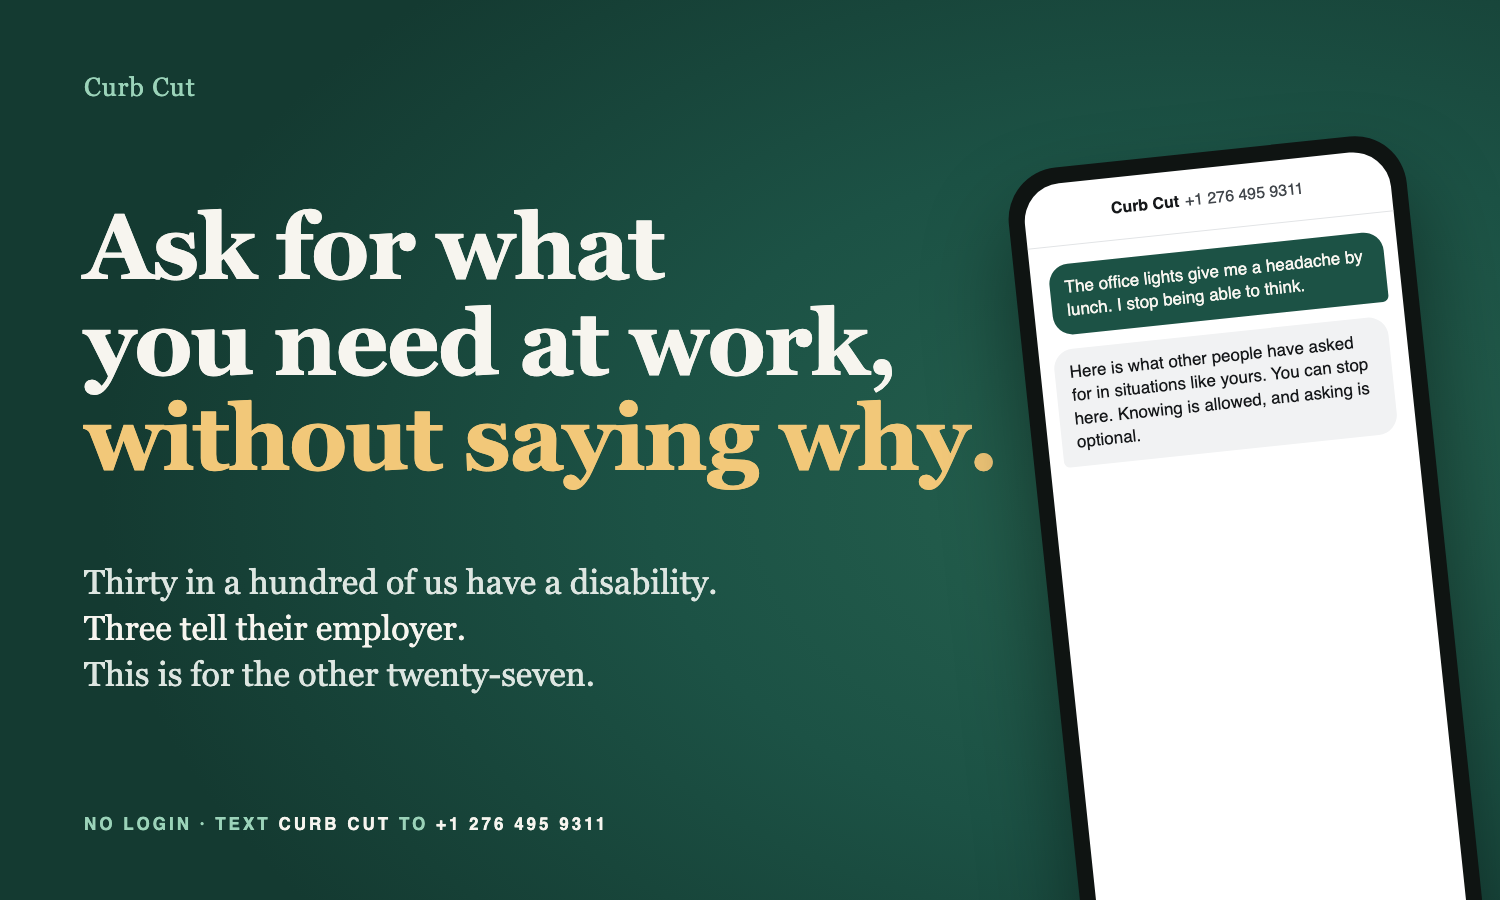
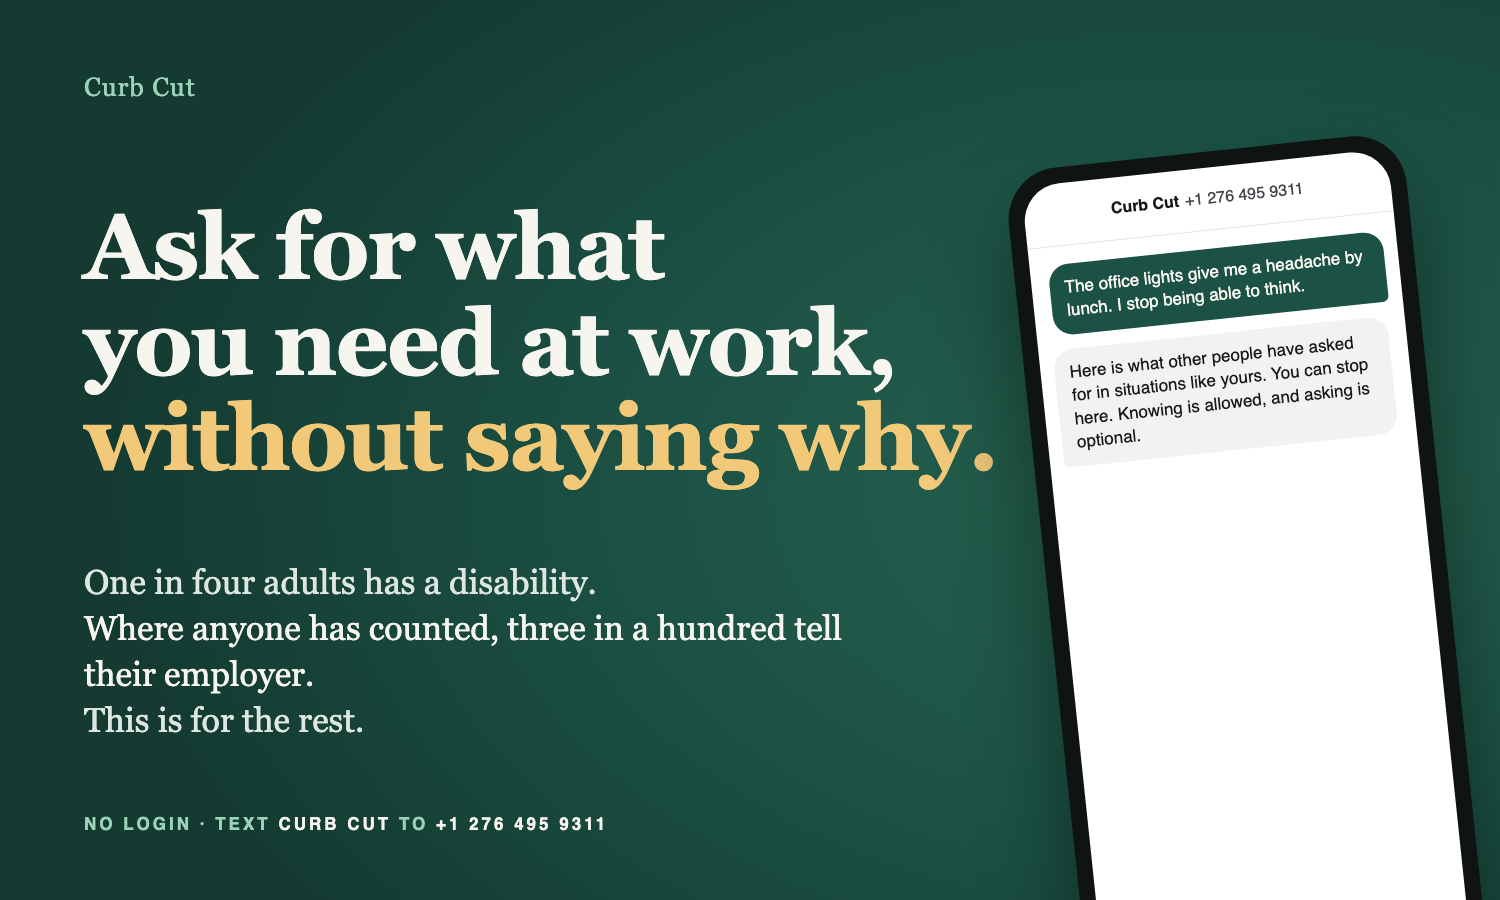
It is not a white-collar problem: BLS 2025, CDC and Statistics Canada figures in the evidence, the description, the home page and the hero

Changed region(s): [[0.0613, 0.6222, 0.5827, 0.8089]]

diff --git a/video/hero.html b/video/hero.html
@@ -19,7 +19,7 @@ h1 em{font-style:normal;color:#F2C879}
 </style><div class="wrap">
 <div class="mark">Curb Cut</div>
 <h1>Ask for what<br>you need at work,<br><em>without saying why.</em></h1>
-<div class="stat">Thirty in a hundred of us have a disability.<br><b>Three tell their employer.</b><br>This is for the other twenty-seven.</div>
+<div class="stat">One in four adults has a disability.<br><b>Where anyone has counted, three in a hundred tell their employer.</b><br>This is for the rest.</div>
 <div class="live">NO LOGIN  ·  TEXT <b>CURB CUT</b> TO <b>+1 276 495 9311</b></div>
 <div class="phone"><div class="scr"><div class="bar"><b>Curb Cut</b> +1 276 495 9311</div><div class="msgs"><div class="m me">The office lights give me a headache by lunch. I stop being able to think.</div><div class="m bot">Here is what other people have asked for in situations like yours. You can stop here. Knowing is allowed, and asking is optional.</div></div></div></div>
 </div>

diff --git a/docs/EVIDENCE.md b/docs/EVIDENCE.md
@@ -121,6 +121,43 @@ nobody their likeness.
 
 ---
 
+## 1a. It is not a white-collar problem
+
+The disclosure study above asked white-collar workers because that is where the
+question had never been asked. The national statistics say who actually holds
+the jobs.
+
+| Figure | Value | Population and definition | Source |
+|---|---|---|---|
+| US adults with a disability | **more than 1 in 4** | All US adults, CDC definition | CDC, *Disability Impacts All of Us*, https://www.cdc.gov/disability-and-health/articles-documents/disability-impacts-all-of-us-infographic.html |
+| Canadians with a disability | **27%**, 8.0 million | Canadians aged 15+, 2022 | Statistics Canada, *Canadian Survey on Disability*, 2022, https://www150.statcan.gc.ca/n1/daily-quotidien/231201/dq231201b-eng.htm |
+| Employed, US, 2025 | **22.8%** vs 65.2% | People 16+ with vs without a disability, employment-population ratio | US BLS, *People with a Disability: Labor Force Characteristics 2025*, https://www.bls.gov/news.release/disabl.nr0.htm |
+| Unemployment rate, US, 2025 | **8.3%** vs 4.1% | same | same |
+| Usually work part time, US, 2025 | **about 30%** vs about 17% | employed people with vs without a disability | same |
+| In service occupations, US, 2025 | **20.0%** vs 16.5% | employed people with vs without a disability | same |
+| In production, transportation and material moving, US, 2025 | **13.8%** vs 12.0% | same | same |
+| In management and professional occupations, US, 2025 | **37.9%** vs 44.1% | same | same |
+| Self-employed, US, 2025 | **9.1%** vs 5.9% | same | same |
+| Employed, Canada, 2022 | **62%** vs 78% | persons aged 25 to 64 with vs without disabilities | Statistics Canada, *A demographic, employment and income profile of persons with disabilities*, 2022 CSD, https://www150.statcan.gc.ca/n1/pub/89-654-x/89-654-x2024001-eng.htm |
+| Below the poverty line, Canada, 2022 | **10%** vs 7% | persons aged 15+ with vs without disabilities, 2018-base Market Basket Measure | same |
+| Not employed but with work potential, Canada, 2022 | **42%**, 741,280 people | persons with disabilities aged 25 to 64 who were not employed | same |
+| Employed, Canada, 2024 | **46.4%** vs 66.2% | persons with vs without disabilities, Labour Force Survey | Statistics Canada, *Labour market characteristics of persons with and without disabilities, 2024*, https://www150.statcan.gc.ca/n1/pub/71-222-x/71-222-x2025001-eng.htm |
+| Part-time, Canada, 2024 | **21.3%** vs 17.4% | workers with vs without disabilities | same |
+| Hourly wage, Canada, 2024 | **93.8%** of the average hourly wage of employees without disabilities, a gap of **$2.22** an hour | employees with disabilities | same |
+
+**What this says.** The people this affects are more likely to be paid by the
+hour, to work part time, and to hold service, production and transport jobs
+than to sit at a desk. That is the shift worker, the cleaner, the warehouse
+picker, the minimum-wage hire with no work email and no HR desk. Nobody has
+measured how many of them tell their employer. The only study that measured
+telling at all asked white-collar workers and found three in a hundred.
+
+**Why Curb Cut's doors look the way they do.** Text and voice on a basic phone,
+no work login, no account, and never a telephone call back: those are the
+doors a person on a shift can use from a break room.
+
+---
+
 ## 2. The accommodation gap, from a national statistics office
 
 This is the strongest evidence in the project, and it is government data.
